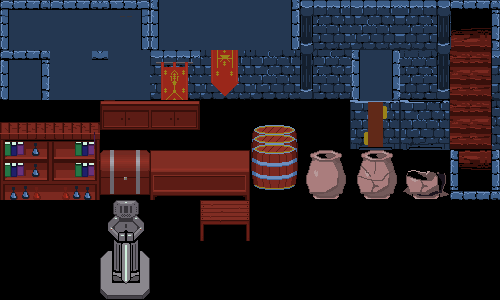
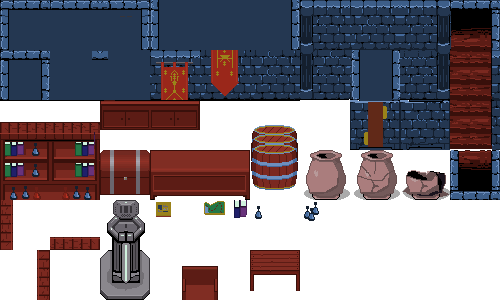
Updated Sprite Sheet

diff --git a/js/Rooms.js b/js/Rooms.js
@@ -138,7 +138,7 @@ rooms = {
             70,70,70,70,70,70,70,204,205,70,70,70,70,70,70,54,
             70,70,70,70,70,70,70,70,70,70,70,70,70,70,70,70,
             8,70,70,70,70,70,70,70,70,70,70,70,70,70,70,70,
-            17,7,7,7,7,7,7,7,7,7,7,7,7,7,7,18
+            17,7,7,7,7,7,7,7,7,7,7,7,7,7,7,7
         ],
         ceiling:
         [
@@ -732,26 +732,26 @@ rooms = {
     "22": {
         bg: [
             1,1,1,1,1,1,1,1,1,1,1,1,1,1,1,1,
-            1,1,1,1,1,1,1,1,1,1,1,1,1,1,1,1,
-            1,1,1,1,1,1,1,1,1,1,1,1,1,1,1,1,
-            1,1,1,1,1,1,1,1,1,1,1,1,1,1,1,1,
-            1,1,1,1,1,1,1,1,1,71,71,71,71,71,1,1,
-            1,1,1,1,1,1,1,1,1,1,1,1,1,1,1,1,
-            1,1,1,1,1,1,1,1,1,1,1,1,1,1,1,1,
-            1,1,1,1,1,1,1,1,1,1,1,1,1,1,1,1,
+            1,13,13,13,1,1,1,1,1,1,1,1,1,13,13,1,
+            1,23,23,23,1,1,1,1,1,1,1,1,1,23,23,1,
+            1,71,71,71,71,71,1,1,1,71,71,71,71,71,71,1,
+            1,71,71,71,71,71,1,1,1,71,71,71,71,71,71,1,
+            1,71,1,1,1,1,1,1,1,1,1,1,1,1,71,1,
+            1,1,1,1,1,1,1,1,1,1,1,1,1,1,71,1,
+            1,71,71,71,71,1,1,1,1,71,71,71,71,71,71,1,
             1,1,1,1,1,1,1,1,1,1,1,1,1,1,1,1,
         ],
         floor:
         [
             10,10,10,10,10,10,11,71,71, 9,10, 10, 10,10,10,10,
-            11,13,13,65,63,65,13,71,71,13,67, 61, 65,13,13, 9,
-            11,23,23,69,64,69,23,71,71,23,69, 62, 69,23,23, 9,
-            11,71,71,71,71,71,71,71,71,71,71, 71, 71,71,71, 9,
-            11,71,71,71,71,71,71,71,71,71,71,150,151,71,71, 9,
-            11,71,71,71,71,71,71,71,71,71,71, 71, 71,71,71, 9,
-            11,71,71,71,71,71,71,71,71,71,71, 71, 71,71,71, 9,
-            11, 8,71,71,71,71,71,71,71,71,71, 71, 71,71,71, 9,
-            17,11, 7, 7, 7, 7, 8,71,71, 6, 7,  7,  7, 7, 7,18
+            11,43,44,65,63,65,13,71,71,13,67, 61, 65,43,44, 9,
+            11,49,50,69,64,69,23,71,71,23,69, 62, 69,49,50, 9,
+            11,45,46,210,211,71,71,71,71,71,71,210,211,45,46, 9,
+            11,213,71,150,151,71,71,71,71,71,71,150,151,71,212, 9,
+            11,213,71,71,71,71,71,71,71,71,71, 71, 71,71,212, 9,
+            17, 8,71,71,71,71,71,71,71,71,71, 71, 71,71,212, 9,
+            10,11,214,214,71,71,71,71,71,71,71, 214,214,71,212, 9,
+            10,17, 7, 7, 7, 7, 8,71,71, 6, 7,  7,  7, 7, 7,18
         ],
         ceiling:
         [
@@ -759,7 +759,7 @@ rooms = {
         0,0,0,0,0,0,0,0,0,0,0,0,0,0,0,0, 
         0,0,0,0,0,0,0,0,0,0,0,0,0,0,0,0,
         0,0,0,0,0,0,0,0,0,0,0,0,0,0,0,0,
-        0,0,0,0,0,0,0,0,0,0,0,0,0,0,0,0,
+        0,0,0,206,207,0,0,0,0,0,0,208,209,0,0,0,
         0,0,0,0,0,0,0,0,0,0,0,0,0,0,0,0,
         0,0,0,0,0,0,0,0,0,0,0,0,0,0,0,0,
         0,0,0,0,0,0,0,0,0,0,0,0,0,0,0,0,
@@ -774,22 +774,22 @@ rooms = {
             1,1,1,1,1,1,1,1,1,1,1,1,1,1,1,1,
             1,1,1,1,1,1,1,1,1,1,1,1,1,1,1,1,
             1,1,1,1,1,1,1,1,1,1,1,1,1,1,1,1,
-            1,1,1,1,1,1,1,1,1,1,1,1,1,1,1,1,
+            1,71,1,1,1,1,1,1,1,1,1,1,1,1,1,1,
             1,1,1,1,1,1,1,1,1,1,1,1,1,1,1,1,
             1,1,1,1,1,1,1,1,1,1,1,1,1,1,1,1,
             1,1,1,1,1,1,1,1,1,1,1,1,1,1,1,1,
         ],
         floor:
         [
-            10,10,10,10,10,10,11,71,71, 9,10,10,10,10,10,10,
-            11,13,13,65,55,65,13,71,71,13,65,57,65,13,13, 9,
-            11,23,23,69,56,69,23,71,71,23,69,58,69,23,23, 9,
-            11,71,71,71,71,71,71,71,71,71,71,71,71,71,88, 9,
-            13,71,71,71,71,71,71,71,71,71,71,71,71,71,71, 9,
-            23,71,71,71,71,71,71,71,71,71,71,71,71,71,71, 9,
-            71,71,71,71,71,71,71,71,71,71,71,71,71,71,71, 9,
-            71,71,71,71,71,71,71,71,71,71,71,71,71,71,71, 9,
-             7, 7, 7, 7, 7, 7, 7, 7, 7, 7, 7, 7, 7, 7, 7,18
+            10, 10,10,10,10,10,11,71,71, 9,10,10,10,10,10,10,
+            11, 13,13,65,55,65,13,71,71,13,65,57,65,13,13, 9,
+            11, 23,23,69,56,69,23,71,71,23,69,58,69,23,23, 9,
+            11, 71,71,71,71,71,71,71,71,71,71,71,71,71,88, 9,
+            13, 71,71,71,71,71,71,71,71,71,71,71,71,71,71, 9,
+            23,215,71,71,71,71,71,71,71,71,71,71,71,71,71, 9,
+            71, 71,71,71,71,71,71,71,71,71,71,71,71,71,71, 9,
+            71, 71,71,71,71,71,71,71,71,71,71,71,71,71,71, 9,
+             7,  7, 7, 7, 7, 7, 7, 7, 7, 7, 7, 7, 7, 7, 7,18
         ],
         ceiling:
         [

diff --git a/js/ImageLoading.js b/js/ImageLoading.js
@@ -126,9 +126,19 @@ function loadImages() {
     {tileType:TILE_POTTERY_3, imgX: 400, imgY: 150, theFile:"dungeonWalls.png"},
     {tileType:TILE_DUNGEON_STAIRS_DOWN_1, imgX: 450, imgY: 150, theFile:"dungeonWalls.png", isStairsDown: true},
     //ROW 5
+    {tileType:TILE_BOOKSHELF_RIGHT_WALL, imgX: 0, imgY: 200, theFile:"dungeonWalls.png"},
+    {tileType:TILE_BOOKSHELF_BOTTOM_WALL, imgX: 50, imgY: 200, theFile:"dungeonWalls.png"},
     {tileType:TILE_STATUE_TOP, imgX: 100, imgY: 200, theFile:"dungeonWalls.png"},
+    {tileType:TILE_DESK_TOP_OBJECT_1, imgX: 150, imgY: 200, theFile:"dungeonWalls.png"},
+    {tileType:TILE_DESK_TOP_OBJECT_2, imgX: 200, imgY: 200, theFile:"dungeonWalls.png"},
+    {tileType:TILE_DESK_TOP_OBJECT_3, imgX: 250, imgY: 200, theFile:"dungeonWalls.png"},
+    {tileType:TILE_DESK_TOP_OBJECT_4, imgX: 300, imgY: 200, theFile:"dungeonWalls.png"},
     //ROW 6
+    {tileType:TILE_BOOKSHELF_LEFT_WALL, imgX: 0, imgY: 250, theFile:"dungeonWalls.png"},
     {tileType:TILE_STATUE_BOTTOM, imgX: 100, imgY: 250, theFile:"dungeonWalls.png"},
+    {tileType:TILE_DESK_CHAIR_LEFT, imgX: 150, imgY: 250, theFile:"dungeonWalls.png"},
+    {tileType:TILE_DESK_CHAIR_RIGHT, imgX: 200, imgY: 250, theFile:"dungeonWalls.png"},
+    {tileType:TILE_TABLE, imgX: 250, imgY: 250, theFile:"dungeonWalls.png"},
 
     //END SPRITE SHEET
 

diff --git a/js/tileData.js b/js/tileData.js
@@ -149,8 +149,17 @@ TILES = {
     TILE_STATUE_TOP: 202,
     TILE_STATUE_BOTTOM: 203,
     TILE_CARPET_1: 204,     
-    TILE_CARPET_2: 205 
-
+    TILE_CARPET_2: 205,
+    TILE_DESK_TOP_OBJECT_1: 206,
+    TILE_DESK_TOP_OBJECT_2: 207,
+    TILE_DESK_TOP_OBJECT_3: 208,
+    TILE_DESK_TOP_OBJECT_4: 209,
+    TILE_DESK_CHAIR_LEFT: 210,
+    TILE_DESK_CHAIR_RIGHT: 211,
+    TILE_BOOKSHELF_LEFT_WALL: 212,
+    TILE_BOOKSHELF_RIGHT_WALL: 213,
+    TILE_BOOKSHELF_BOTTOM_WALL: 214,
+    TILE_TABLE: 215
   };
 
   for(const [key, value] of Object.entries(TILES)) {
